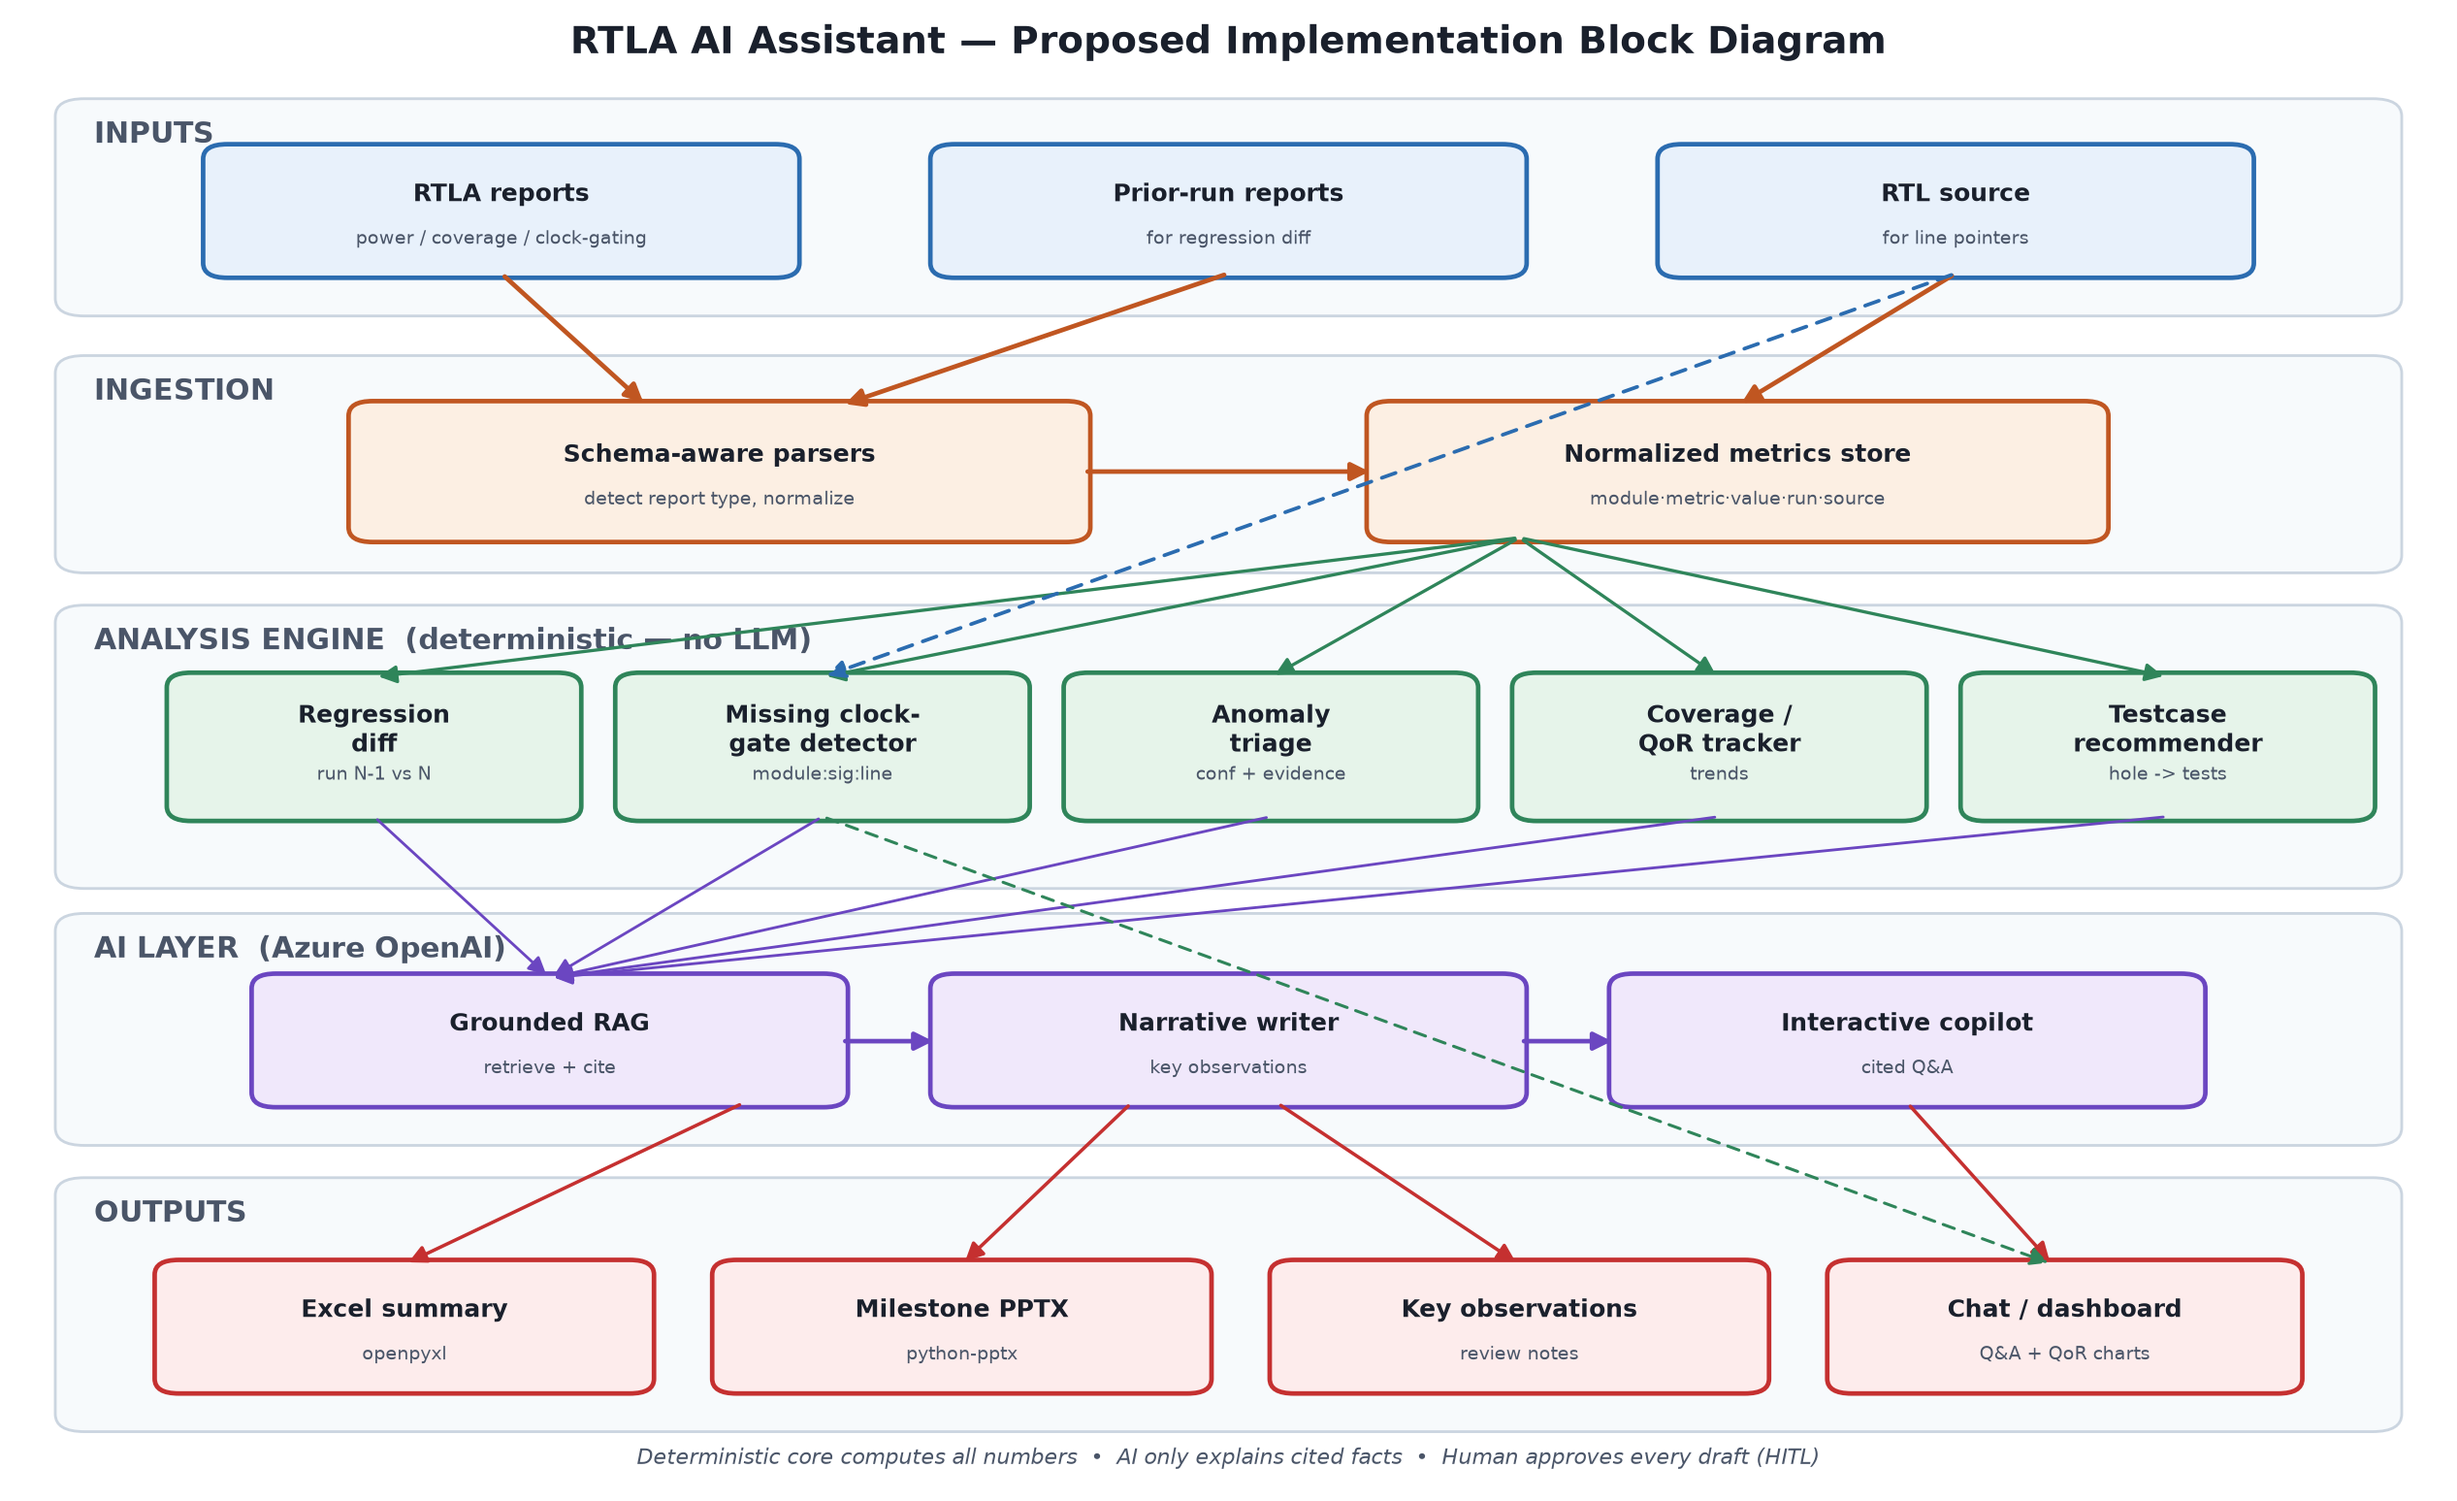
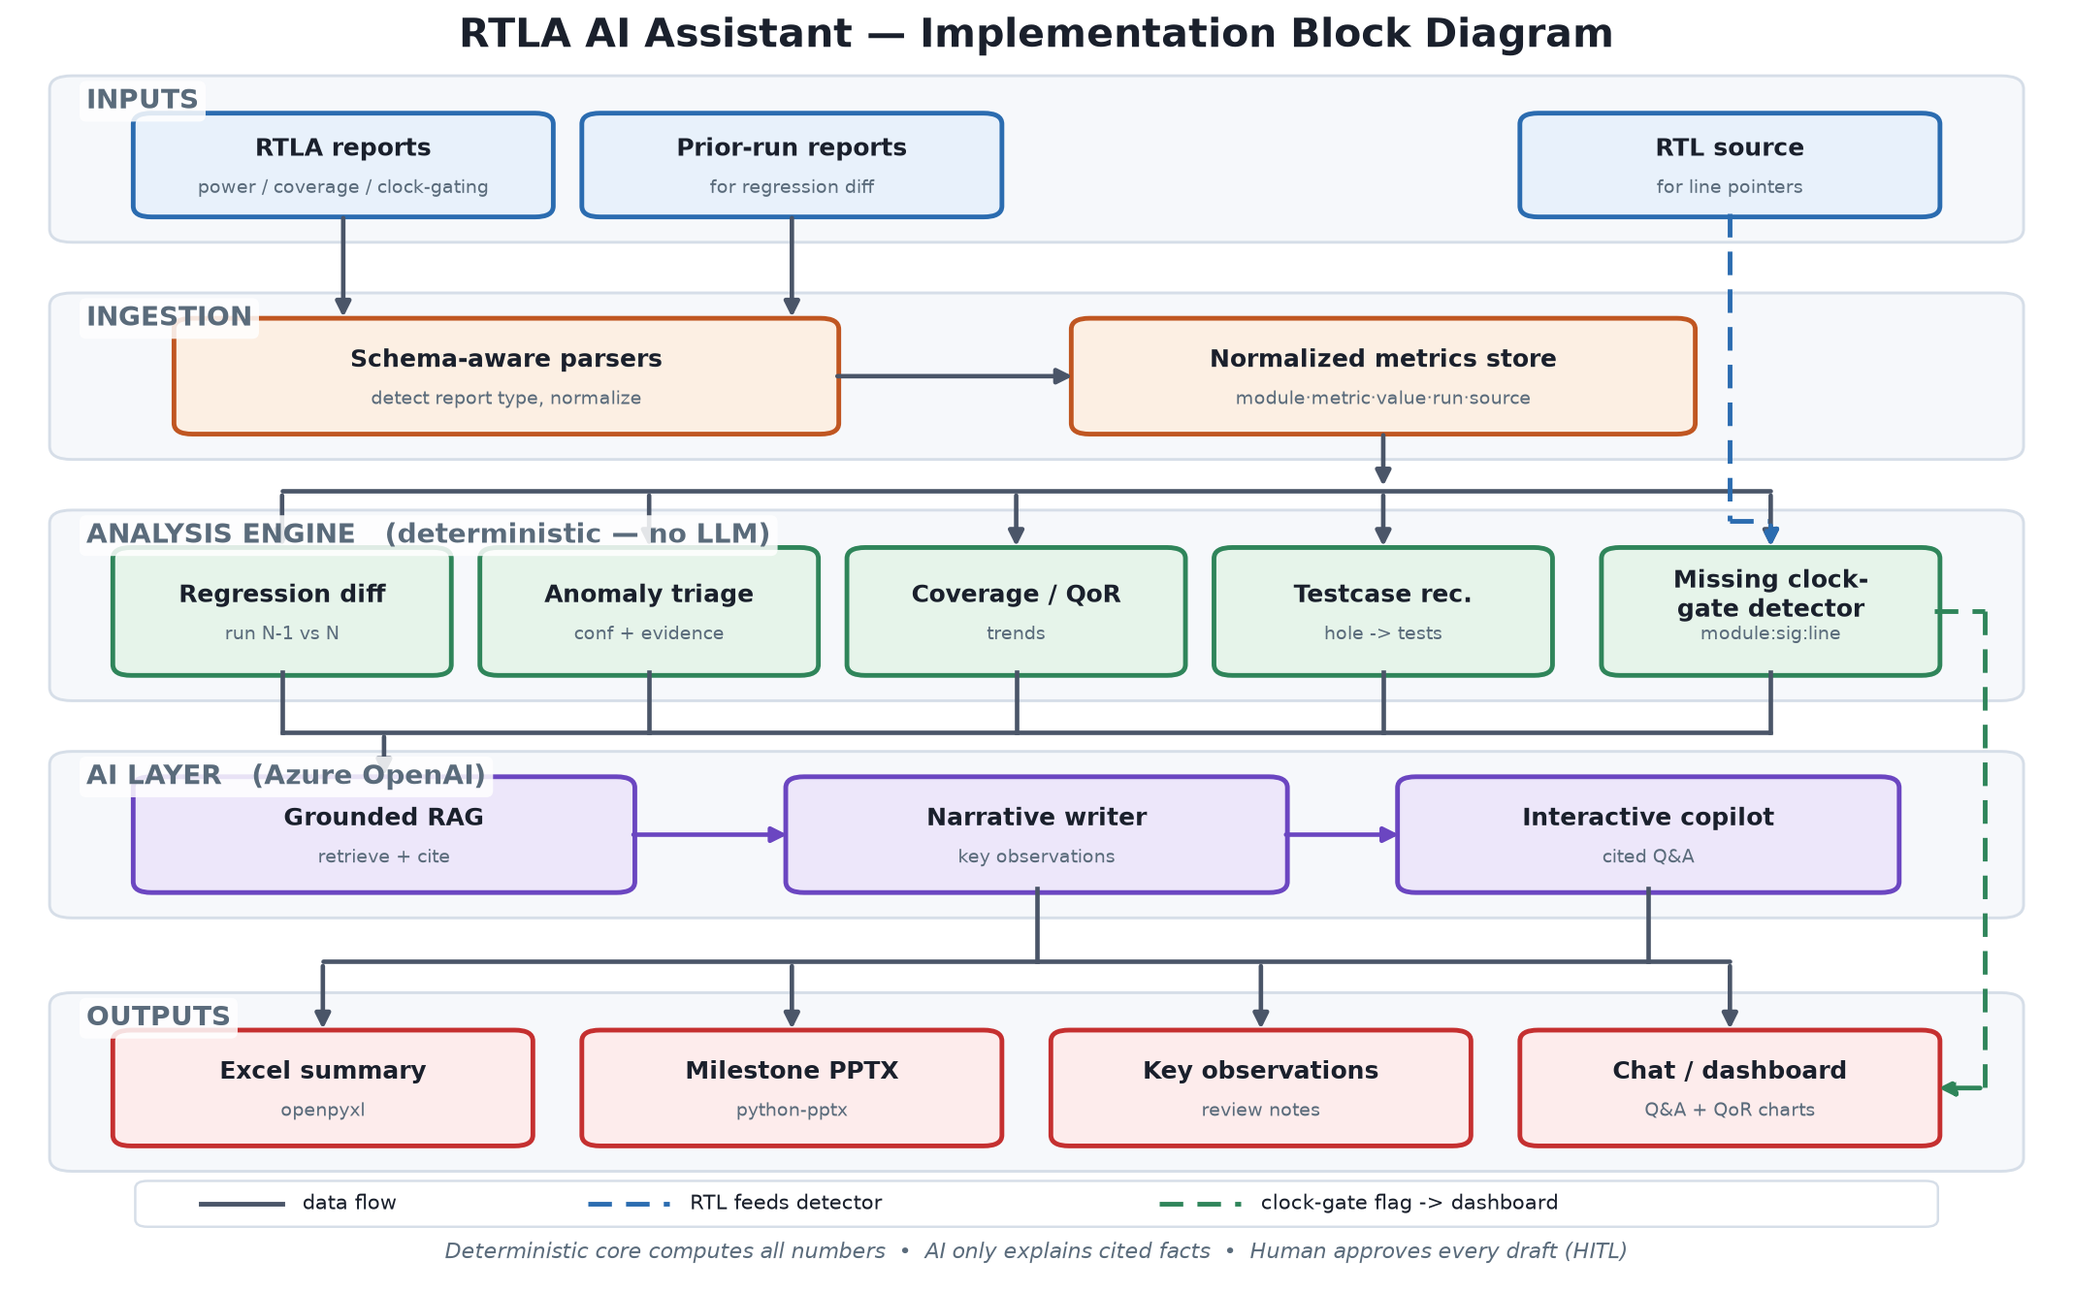
Redesign block diagram: clean orthogonal bus routing, no crossing arrows
- Right-angle 'bus' connectors replace diagonal spaghetti
- Reorder analysis modules so RTL->clock-gate path is a short straight line
- Neutral structural arrows; only the two special paths dashed + colour-coded
- White halo behind band labels for legibility

Changed region(s): [[0.0309, 0.0, 0.9883, 0.985]]

diff --git a/assets/images/gen_block_diagram.py b/assets/images/gen_block_diagram.py
@@ -1,115 +1,141 @@
-"""Render the RTLA AI Assistant implementation block diagram as a PNG."""
+"""Render the RTLA AI Assistant implementation block diagram as a PNG.
+
+Clean orthogonal ("bus") routing: no diagonal spaghetti. Structural flows are
+neutral right-angle connectors; the two special paths (RTL -> detector, and the
+clock-gate finding -> dashboard) are dashed and colour-coded.
+"""
 import matplotlib
 matplotlib.use("Agg")
 import matplotlib.pyplot as plt
 from matplotlib.patches import FancyBboxPatch, FancyArrowPatch
 
-# Palette
-C_IN   = "#E8F1FB"; E_IN   = "#2B6CB0"
-C_ING  = "#FCEFE3"; E_ING  = "#C05621"
-C_ANA  = "#E6F4EA"; E_ANA  = "#2F855A"
-C_AI   = "#F0E8FB"; E_AI   = "#6B46C1"
-C_OUT  = "#FDECEC"; E_OUT  = "#C53030"
-C_BAND = "#F7FAFC"
+# ---- palette ----
+C_IN, E_IN   = "#E8F1FB", "#2B6CB0"
+C_ING, E_ING = "#FCEFE3", "#C05621"
+C_ANA, E_ANA = "#E6F4EA", "#2F855A"
+C_AI, E_AI   = "#EDE7FA", "#6B46C1"
+C_OUT, E_OUT = "#FDECEC", "#C53030"
+BAND   = "#F6F8FB"
 TXT    = "#1A202C"
+NEU    = "#4A5568"
+DASH_R = "#2B6CB0"
+DASH_G = "#2F855A"
 
-fig, ax = plt.subplots(figsize=(15, 9.2))
-ax.set_xlim(0, 100); ax.set_ylim(0, 100); ax.axis("off")
+fig, ax = plt.subplots(figsize=(15.5, 9.6))
+ax.set_xlim(0, 100); ax.set_ylim(-4, 100); ax.axis("off")
 
-def band(x, y, w, h, color, label):
-    ax.add_patch(FancyBboxPatch((x, y), w, h, boxstyle="round,pad=0.4,rounding_size=1.2",
-                                fc=color, ec="#CBD5E0", lw=1.2, zorder=1))
-    ax.text(x + 1.2, y + h - 2.6, label, fontsize=12.5, fontweight="bold",
-            color="#4A5568", zorder=3)
+def band(x, y, w, h, label):
+    ax.add_patch(FancyBboxPatch((x, y), w, h, boxstyle="round,pad=0.4,rounding_size=1.1",
+                                fc=BAND, ec="#D6DEE8", lw=1.2, zorder=1))
+    ax.text(x + 1.4, y + h - 2.3, label, fontsize=11.5, fontweight="bold",
+            color="#5A6B7B", zorder=9,
+            bbox=dict(boxstyle="round,pad=0.25", fc="white", ec="none", alpha=0.85))
 
 def box(x, y, w, h, fc, ec, title, sub=""):
-    ax.add_patch(FancyBboxPatch((x, y), w, h, boxstyle="round,pad=0.3,rounding_size=1.0",
+    ax.add_patch(FancyBboxPatch((x, y), w, h, boxstyle="round,pad=0.3,rounding_size=0.9",
                                 fc=fc, ec=ec, lw=2, zorder=4))
-    ax.text(x + w/2, y + h/2 + (1.1 if sub else 0), title, ha="center", va="center",
-            fontsize=10.5, fontweight="bold", color=TXT, zorder=5)
+    ax.text(x + w/2, y + h/2 + (1.3 if sub else 0), title, ha="center", va="center",
+            fontsize=10.3, fontweight="bold", color=TXT, zorder=5)
     if sub:
         ax.text(x + w/2, y + h/2 - 1.9, sub, ha="center", va="center",
-                fontsize=8.2, color="#4A5568", zorder=5)
+                fontsize=8, color="#5A6B7B", zorder=5)
 
-def arrow(x1, y1, x2, y2, color="#2D3748", style="-|>", lw=2, ls="-"):
-    ax.add_patch(FancyArrowPatch((x1, y1), (x2, y2), arrowstyle=style,
-                 mutation_scale=16, lw=lw, color=color, ls=ls,
-                 connectionstyle="arc3,rad=0", zorder=6))
+def flow(pts, color=NEU, dashed=False, lw=1.9):
+    ls = (0, (5, 3)) if dashed else "-"
+    for i in range(len(pts) - 2):
+        (x1, y1), (x2, y2) = pts[i], pts[i + 1]
+        ax.plot([x1, x2], [y1, y2], color=color, lw=lw, ls=ls, zorder=6,
+                solid_capstyle="round")
+    (x1, y1), (x2, y2) = pts[-2], pts[-1]
+    ax.add_patch(FancyArrowPatch((x1, y1), (x2, y2), arrowstyle="-|>",
+                 mutation_scale=13, lw=lw, color=color, ls=ls, zorder=7))
 
-ax.text(50, 97.5, "RTLA AI Assistant — Proposed Implementation Block Diagram",
-        ha="center", fontsize=16.5, fontweight="bold", color=TXT)
+def bus(x1, x2, y, color=NEU, lw=1.9):
+    ax.plot([x1, x2], [y, y], color=color, lw=lw, zorder=6, solid_capstyle="round")
 
-# ---- Bands (left labels) ----
-band(2, 80, 96, 14, C_BAND, "INPUTS")
-band(2, 62.5, 96, 14, C_BAND, "INGESTION")
-band(2, 41, 96, 18.5, C_BAND, "ANALYSIS ENGINE  (deterministic — no LLM)")
-band(2, 23.5, 96, 15, C_BAND, "AI LAYER  (Azure OpenAI)")
-band(2, 4, 96, 16.5, C_BAND, "OUTPUTS")
+ax.text(50, 97.8, "RTLA AI Assistant — Implementation Block Diagram",
+        ha="center", fontsize=17, fontweight="bold", color=TXT)
 
-# ---- Inputs ----
-box(8, 82.5, 24, 8.5, C_IN, E_IN, "RTLA reports", "power / coverage / clock-gating")
-box(38, 82.5, 24, 8.5, C_IN, E_IN, "Prior-run reports", "for regression diff")
-box(68, 82.5, 24, 8.5, C_IN, E_IN, "RTL source", "for line pointers")
+# ---- bands ----
+band(2, 82, 96, 13, "INPUTS")
+band(2, 64, 96, 13, "INGESTION")
+band(2, 44, 96, 15, "ANALYSIS ENGINE   (deterministic — no LLM)")
+band(2, 26, 96, 13, "AI LAYER   (Azure OpenAI)")
+band(2, 5, 96, 14, "OUTPUTS")
 
-# ---- Ingestion ----
-box(14, 64.5, 30, 9, C_ING, E_ING, "Schema-aware parsers", "detect report type, normalize")
-box(56, 64.5, 30, 9, C_ING, E_ING, "Normalized metrics store", "module·metric·value·run·source")
+# ---- inputs ----
+box(6, 84, 20, 8, C_IN, E_IN, "RTLA reports", "power / coverage / clock-gating")
+box(28, 84, 20, 8, C_IN, E_IN, "Prior-run reports", "for regression diff")
+box(74, 84, 20, 8, C_IN, E_IN, "RTL source", "for line pointers")
 
-# ---- Analysis engine (5 modules) ----
-aw = 16.5; ay = 45.5; ah = 9.5
-axs = [6.5, 25, 43.5, 62, 80.5]
-alabels = [
-    ("Regression\ndiff", "run N-1 vs N"),
-    ("Missing clock-\ngate detector", "module:sig:line"),
-    ("Anomaly\ntriage", "conf + evidence"),
-    ("Coverage /\nQoR tracker", "trends"),
-    ("Testcase\nrecommender", "hole -> tests"),
+# ---- ingestion ----
+box(8, 66, 32, 9, C_ING, E_ING, "Schema-aware parsers", "detect report type, normalize")
+box(52, 66, 30, 9, C_ING, E_ING, "Normalized metrics store", "module·metric·value·run·source")
+
+# ---- analysis (clock-gate rightmost, under RTL source) ----
+mods = [
+    (5,  "Regression diff", "run N-1 vs N"),
+    (23, "Anomaly triage", "conf + evidence"),
+    (41, "Coverage / QoR", "trends"),
+    (59, "Testcase rec.", "hole -> tests"),
+    (78, "Missing clock-\ngate detector", "module:sig:line"),
 ]
-for x, (t, s) in zip(axs, alabels):
-    box(x, ay, aw, ah, C_ANA, E_ANA, t, s)
+for x, t, s in mods:
+    box(x, 46, 16, 10, C_ANA, E_ANA, t, s)
+mcx = [x + 8 for x, _, _ in mods]
 
 # ---- AI layer ----
-box(10, 26, 24, 8.5, C_AI, E_AI, "Grounded RAG", "retrieve + cite")
-box(38, 26, 24, 8.5, C_AI, E_AI, "Narrative writer", "key observations")
-box(66, 26, 24, 8.5, C_AI, E_AI, "Interactive copilot", "cited Q&A")
+box(6, 28, 24, 9, C_AI, E_AI, "Grounded RAG", "retrieve + cite")
+box(38, 28, 24, 9, C_AI, E_AI, "Narrative writer", "key observations")
+box(68, 28, 24, 9, C_AI, E_AI, "Interactive copilot", "cited Q&A")
 
-# ---- Outputs ----
-box(6, 6.5, 20, 8.5, C_OUT, E_OUT, "Excel summary", "openpyxl")
-box(29, 6.5, 20, 8.5, C_OUT, E_OUT, "Milestone PPTX", "python-pptx")
-box(52, 6.5, 20, 8.5, C_OUT, E_OUT, "Key observations", "review notes")
-box(75, 6.5, 19, 8.5, C_OUT, E_OUT, "Chat / dashboard", "Q&A + QoR charts")
+# ---- outputs ----
+box(5, 7, 20, 9, C_OUT, E_OUT, "Excel summary", "openpyxl")
+box(28, 7, 20, 9, C_OUT, E_OUT, "Milestone PPTX", "python-pptx")
+box(51, 7, 20, 9, C_OUT, E_OUT, "Key observations", "review notes")
+box(74, 7, 20, 9, C_OUT, E_OUT, "Chat / dashboard", "Q&A + QoR charts")
 
-# ---- Arrows: inputs -> ingestion ----
-arrow(20, 82.5, 26, 73.5, E_ING)
-arrow(50, 82.5, 34, 73.5, E_ING)
-arrow(80, 82.5, 71, 73.5, E_ING)
+# ================= arrows =================
+# inputs -> parsers
+flow([(16, 84), (16, 75)])
+flow([(38, 84), (38, 75)])
 # parsers -> store
-arrow(44, 69, 56, 69, E_ING)
-# store -> analysis (fan out)
-for x in axs:
-    arrow(62, 64.5, x + aw/2, ay + ah, E_ANA, lw=1.4)
-# RTL source -> clock-gate detector (dashed direct)
-arrow(80, 82.5, 25 + aw/2, ay + ah, E_IN, lw=1.6, ls=(0, (4, 3)))
-# analysis -> AI layer (converge to RAG)
-for x in axs:
-    arrow(x + aw/2, ay, 22, 34.5, E_AI, lw=1.2)
-# RAG -> narrator -> copilot
-arrow(34, 30.2, 38, 30.2, E_AI)
-arrow(62, 30.2, 66, 30.2, E_AI)
-# AI -> outputs
-arrow(30, 26, 16, 15, E_OUT, lw=1.5)      # narrator -> excel/pptx region
-arrow(46, 26, 39, 15, E_OUT, lw=1.5)
-arrow(52, 26, 62, 15, E_OUT, lw=1.5)
-arrow(78, 26, 84, 15, E_OUT, lw=1.5)      # copilot -> chat
-# clock-gate pointer -> chat/dashboard (dashed)
-arrow(25 + aw/2, ay, 84, 15, E_ANA, lw=1.3, ls=(0, (4, 3)))
+flow([(40, 70.5), (52, 70.5)])
+# store -> distribution bus -> each analysis module
+flow([(67, 66), (67, 61)])
+bus(13, 86, 61)
+for cx in mcx:
+    flow([(cx, 61), (cx, 56)])
+# analysis modules -> collector bus -> Grounded RAG
+for cx in mcx:
+    ax.plot([cx, cx], [46, 41], color=NEU, lw=1.9, zorder=6)
+bus(13, 86, 41)
+flow([(18, 41), (18, 37)])
+# RTL source -> clock-gate detector (dashed)
+flow([(84, 84), (84, 58.5), (86, 58.5), (86, 56)], color=DASH_R, dashed=True, lw=2)
+# AI internal chain
+flow([(30, 32.5), (38, 32.5)], color=E_AI)
+flow([(62, 32.5), (68, 32.5)], color=E_AI)
+# AI layer -> distribution bus -> outputs
+ax.plot([50, 50], [28, 22], color=NEU, lw=1.9, zorder=6)
+ax.plot([80, 80], [28, 22], color=NEU, lw=1.9, zorder=6)
+bus(15, 84, 22)
+for cx in (15, 38, 61, 84):
+    flow([(cx, 22), (cx, 16)])
+# clock-gate finding -> dashboard (dashed, far-right)
+flow([(94, 51), (96.5, 51), (96.5, 11.5), (94, 11.5)], color=DASH_G, dashed=True, lw=2)
 
-# Legend
-ax.text(50, 1.4,
-        "Deterministic core computes all numbers  •  AI only explains cited facts  •  Human approves every draft (HITL)",
-        ha="center", fontsize=9.5, style="italic", color="#4A5568")
+# ---- legend ----
+ax.add_patch(FancyBboxPatch((6, 0.2), 88, 3.4, boxstyle="round,pad=0.2,rounding_size=0.6",
+                            fc="white", ec="#D6DEE8", lw=1, zorder=2))
+ax.plot([9, 13], [1.9, 1.9], color=NEU, lw=2, zorder=3)
+ax.text(14, 1.9, "data flow", va="center", fontsize=8.5, color=TXT, zorder=3)
+ax.plot([28, 32], [1.9, 1.9], color=DASH_R, lw=2, ls=(0, (5, 3)), zorder=3)
+ax.text(33, 1.9, "RTL feeds detector", va="center", fontsize=8.5, color=TXT, zorder=3)
+ax.plot([56, 60], [1.9, 1.9], color=DASH_G, lw=2, ls=(0, (5, 3)), zorder=3)
+ax.text(61, 1.9, "clock-gate flag -> dashboard", va="center", fontsize=8.5, color=TXT, zorder=3)
+ax.text(50, -2.6, "Deterministic core computes all numbers  •  AI only explains cited facts  •  Human approves every draft (HITL)",
+        ha="center", fontsize=9, style="italic", color="#5A6B7B")
 
-plt.tight_layout()
-out = "rtla_block_diagram.png"
-plt.savefig(out, dpi=170, bbox_inches="tight", facecolor="white")
-print("saved", out)
+plt.savefig("rtla_block_diagram.png", dpi=175, bbox_inches="tight", facecolor="white")
+print("saved rtla_block_diagram.png")
